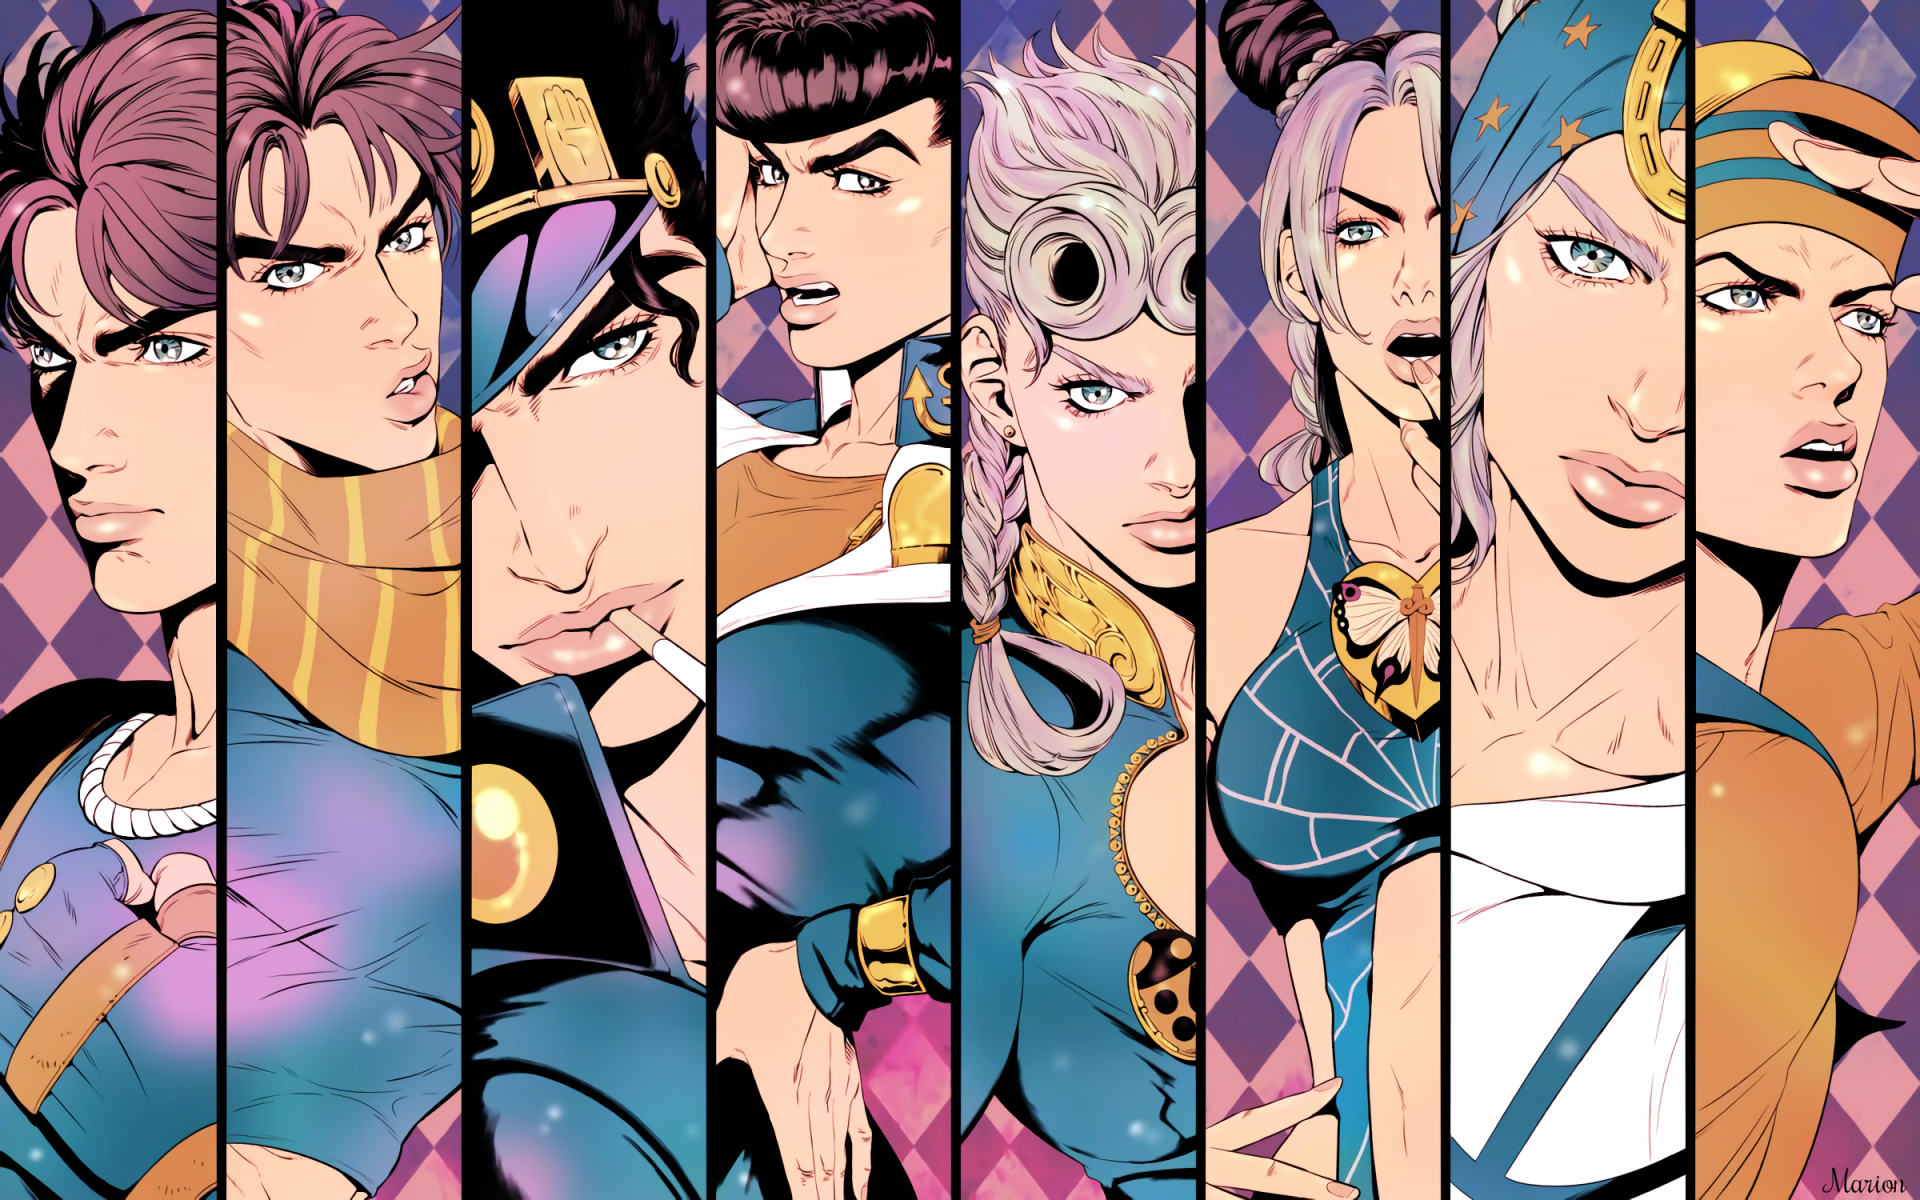
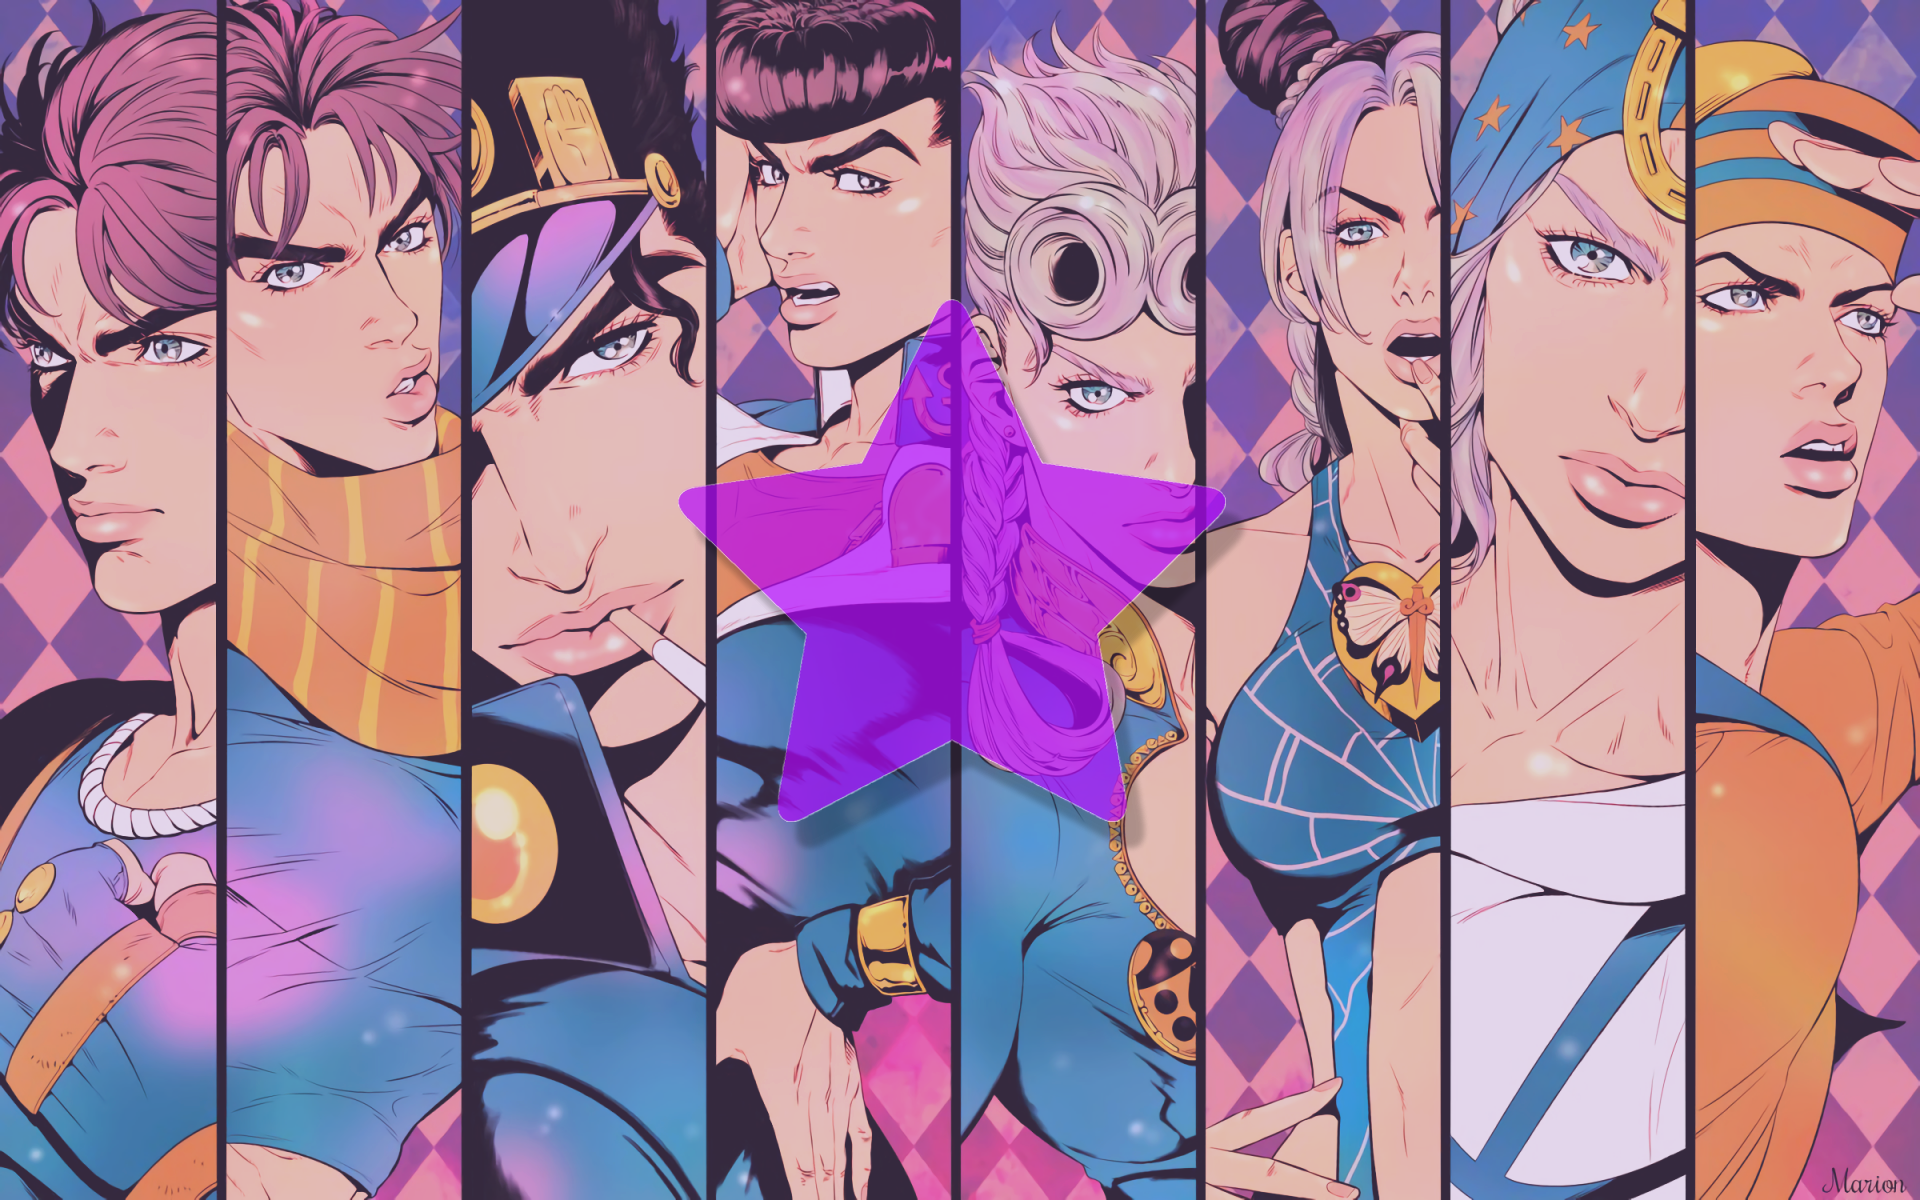
correctifs hof

diff --git a/HoF/shonen/nekketsu.html b/HoF/shonen/nekketsu.html
@@ -1052,11 +1052,11 @@
      <div id="carousel5e" class="carousel slide carousel-fade bigScreen">
         <div class="carousel-inner ">
 
-          <div class="carousel-item active">
+          <div class="carousel-item">
              <img src="hxh20.jpg" class="d-block w-100 carouselGeneraux" alt=".">
           </div>
 
-          <div class="carousel-item ">
+          <div class="carousel-item active ">
              <img src="hxh21.jpg" class="d-block w-100 carouselGeneraux" alt=".">
           </div>
 
@@ -1211,6 +1211,22 @@
            </p>
           </div>
 
+          <div class="carousel-item">
+            <p>"Quand je dis que ça ne me fait pas mal, ça veut dire que je peux le supporter" <br><br>
+             <i>Killua Zoldyk</i>
+           </p>
+          </div>
+
+          <div class="carousel-item">
+            <p>"Normalement, comme les gens aiment et sont aimés, ils ressentent du 
+              bonheur. Quand je suis détesté par les gens, c'est là que je ressens du 
+              bonheur. Et puis j'ai envie de <b>déchirer</b> et d'infliger un mal inimaginable
+               aux choses que j'aime. <br> Mais est-ce vraiment si étrange, je me demande ?" <br><br>
+             <i>Pariston Hill</i>
+           </p>
+          </div>
+
+
 
        </div>
 
@@ -1265,9 +1281,6 @@
             </p>
           </div>
 
- 
-
-
           <div class="carousel-item">
              <p>"Nous sommes vraiment des créatures faibles, mais c'est pourquoi nous pouvons 
               nous efforcer de devenir plus forts. Même si vous pensez que c'est inutile, chaque
@@ -1276,7 +1289,34 @@
              </p>
           </div>
 
- 
+         <div class="carousel-item">
+           <p>"Les enseignements qui se font sans douleur n'ont pas de réelle valeur... <br>Ainsi, on ne peut rien obtenir sans faire de sacrifice." <br><br>
+            <i>Hiromu Arakawa</i>
+            </p>
+         </div>
+
+        <div class="carousel-item">
+          <p>" Pour obtenir quelque chose, il faut qu'il y ait quelque chose de valeur égale.
+             C'est la loi de conservation en alchimie. À l'époque, nous croyions que c'était
+              la vérité du monde. Cependant, le monde réel n'est pas parfait, il n'y a donc 
+              pas qu'une seule loi qui régit tout ce qui s'y passe." <br><br>
+           <i>Alphonse Elrick</i>
+           </p>
+        </div>
+
+        <div class="carousel-item">
+          <p>" La destruction et la création sont les deux faces d'une même médaille. 
+            Vous devez détruire pour créer ! C'est la loi de l'univers.
+            " <br><br>
+           <i>Alex Louis Amstrong</i>
+           </p>
+        </div>
+
+        <div class="carousel-item">
+          <p>"Nos noms nous sont donnés par Dieu. J'ai trahi Dieu, alors je n'ai plus de nom" <br><br>
+           <i>Scar</i>
+           </p>
+        </div>
 
 
        </div>
@@ -1680,9 +1720,52 @@
           
           <div class="carousel-item">
              <p>"Parfois, j'ai l'impression d'être un raté. 
-                Comme s'il n'y avait aucun espoir pour moi. <br> Mais même ainsi, je ne vais pas abandonner." <br> <br>
+                Comme s'il n'y avait aucun espoir pour moi. <br> Mais même comme ça, j'abandonnerai pas." <br> <br>
                 <i>Midorya Izuku</i>
              </p>
+          </div>
+
+          <div class="carousel-item">
+            <p>"Le travail d'un héros est de risquer
+               sa vie pour transformer ses promesses en réalité. <br>
+               Les rêves peuvent devenir réalité !" <br> <br>
+               <i>Midorya Izuku</i>
+            </p>
+          </div>
+
+          <div class="carousel-item">
+            <p>"Que vous gagniez ou perdiez, regarder en arrière et apprendre de vos expériences
+              fait partie de la vie. Ne négliez pas ça !" <br> <br>
+               <i>AllMight</i>
+            </p>
+          </div>
+
+          <div class="carousel-item">
+            <p>"A force de à mépriser les autres, on perd de vue ses propres faiblesses !" <br> <br>
+               <i>Katsuki Bakugo</i>
+            </p>
+          </div>
+
+          <div class="carousel-item">
+            <p>"Les hommes ne naissent pas égaux. J’ai appris cette vérité à l’âge de 4 ans." <br> <br>
+               <i>Shigaraki Tomura</i>
+            </p>
+          </div>
+
+          <div class="carousel-item">
+            <p>"Vous êtes tous comme ça. Vous faîtes semblant de protéger la société. Par le
+               passé, pendant des générations, vous avez ignoré ce que vous ne pouviez
+                pas protéger. Vous avez mis la société sous cloche, en empêchant la souffrance
+                 d'avoir droit de cité. Résultat ? Elle a pourri de l'intérieur et les verres
+                  ont grouillé... Petit à petit, la gangrène se propageait... Tous ces déchets 
+                  habitués à se laisser protéger. Ceux qui laissent naître les déchets afin de 
+                  les protéger, profiteurs du crime. <br> Dans <b>tout</b> ce que vous avez bâti, tout ce 
+                  que j'ai pu voir <b>désavouait mon existence même</b>. Alors moi aussi, je vais 
+                  désavouer votre société. Je vais l'annihiler. Mais pour ça, j'ai besoin 
+                  de pouvoir. Simple comme bonjour, non ? <br> Si vous comprenez pas, c'est rien. 
+                  <b>C'est pour ça que vous êtes des héros et que je suis un vilain !</b> " <br> <br>
+               <i>Shigaraki Tomura</i>
+            </p>
           </div>
 
        </div>
@@ -2098,6 +2181,12 @@
               <i>Sawada Tsunayoshi</i></p>
           </div>
 
+          <div class="carousel-item">
+            <p>"C'est le ciel qui permet au nuage de se déplacer librement. Mais un
+               jour, je mordrai même le ciel lui-même" <br><br>
+              <i>Hibari Kyoya</i></p>
+          </div>
+
 
        </div>
 
@@ -2136,7 +2225,7 @@
           <p>Deux orphelins, Asta et Yuno, accueillis et ayant grandi dans le même orphelinat se promettent depuis petit 
             de devenir
             Empereur-Mage. Le plus le plus grand titre du royaume témoignant de la puissance magique 
-            du royaume. Malgré qu'Asta soit le seul à ne pas avoir de magie, il continue à croire fortement à son rêve
+            du royaume. Malgré qu'Asta soit le seul à ne pas avoir de magie, il continue à croire fortement en son rêve
             et s'entraine physiquement en attendant. <br>
             Le grand jour de leur attribution de grimmoire, il s'avère que finalement, seul
             Yuno se voit attribué d'un grimmoire, béni par la magie et obtenant la meilleure catégorie.
@@ -2145,7 +2234,7 @@
       
             Dans sa déroute, il croise un pnj hautain qui va le cabosser sévèrement, frôlant la mort.
             Il commence alors à complètement renoncer à sa vie, brisé par la dure réalité de son impuissance dans ce monde.
-            Lorsqu'une étincelle de sa volonté refusant de s'éteindre l'anima ! Il se voit alors tout d'un coup
+            Quant une étincelle de sa volonté refusant de s'éteindre l'anima ! Il se voit alors tout d'un coup
              attribué d'un grimmoire ! <br>
             Un grimmoire marqué d'un trèfle à 5 feuille, le signe des démons ..
           </p>
@@ -2153,13 +2242,36 @@
 
           <div class="carousel-item">
             <p>"Chaque feuille du trèfle représente une vertu.  <br>
-               Les trois premièressont pour l’Espérance, la Foi et la Charité. <br>
+               Les trois premières sont pour l’Espérance, la Foi et la Charité. <br>
                La quatrième est pour la Chance.
                Mais dans la cinquième ... y réside <b>le Démon</b>." 
             </p>
+          </div>
+
+            <div class="carousel-item">
+              <p>" Le gravier est peut-être du gravier. Mais moi? 
+                Je suis du gravier qui brise les diamants !" <br> <br> <i>Asta</i>
+              </p>
+            </div>
+
+            <div class="carousel-item">
+              <p>"Arrête d’abandonner ! Ce que tu fais en ce moment, c'est 
+                t'enfuir ! Tu as juste arrêté de réfléchir et te battre, et tu t’es enfermé 
+                dans l’obscurité parce que c’est plus facile comme ça !" <br> <br> <i>Asta</i>
+              </p>
             </div>
 
 
+
+            <div class="carousel-item">
+              <p>"Dépassez vos limites: ICI ET MAINTENANT !!" <br> <br><i>Yami Sukehiro</i>
+              </p>
+            </div>
+
+            <div class="carousel-item">
+              <p>"Il n'y a pas de honte à être faible... Mais rester faible l'est <br> <br> <i>Fuegoleon Vermillon</i>
+              </p>
+            </div>
 
        </div>
 

diff --git a/assets/style-hof.css b/assets/style-hof.css
@@ -11,11 +11,35 @@ body {
     padding: 0;
 }
 
+.bodyOthers {
+    background-image: url("../img/star2.png");    
+    background-repeat:no-repeat;
+    background-size: 22%; 
+    background-attachment: fixed;
+    background-position: right;
+}
+
+.bodyOthers::before{
+    content: "";
+    background-image:url("../img/starr.png");
+    background-repeat: no-repeat;
+     background-size: 25%;
+     background-attachment: fixed;
+     background-position: right;
+     top: 0%;
+     right: 0%;
+     bottom: 0%;
+     left: 0%;
+     opacity: 0.47;
+     position: fixed;
+}
+
 
 .dark-mode {
-    background: rgb(20,99,162);
+    background-color: rgb(20,99,162);
     background: linear-gradient(0deg, rgba(20,99,162,1) 0%, rgba(31,10,116,1) 31%, rgba(80,15,129,1) 72%, rgba(20,99,162,1) 100%);
     color: white;
+    
     h3 {
         border: none;
          box-shadow: none;
@@ -28,8 +52,8 @@ body {
         background-size: 100%;
         inline-size: 70%; 
         -webkit-text-stroke: 1.5px black;
-        
     };
+
     .modal-content {
         color: rgba(252, 248, 5, 0.918);
         background-color: rgba(6, 6, 117, 0.548);
@@ -251,7 +275,8 @@ a{
     border-bottom: solid 8px currentColor;
     border-left: dashed 7px currentColor;
     border-top: dashed 7px currentColor;
-    box-shadow: 0.80rem 0.80rem 0 rgb(252, 255, 59);
+    box-shadow: 0.80rem 0.80rem 0 rgb(82, 228, 119);
+    /* box-shadow: 0.80rem 0.80rem 0 rgb(210, 39, 253); */
     text-align: center;
 }
 
@@ -361,7 +386,7 @@ a{
 /**************************************************************************/
 /** CONSEILS *************************************************************/
 
-/* .     .     .    empty (a faire plus tard)
+/* X     X     X     X    X    .     .     .    empty (a faire plus tard)
 
 /****************************************************************************/
 /***************************************************************************/
@@ -391,13 +416,12 @@ a{
 }
 
 /*   PETIT ECRAN  -------------------- */
-
 @media screen and (max-width: 980px) {
 
 
 .bodyOthers::after{
     content: "";
-    background-image:url("../img/star.png");
+    background-image:url("../img/star2.png");
      background-size: cover;
      background-position: center;
      background-attachment: fixed;
@@ -407,7 +431,6 @@ a{
      bottom: 0%;
      left: 0%;
      opacity: 0.48;
-    
 }  
 
 h2{

diff --git a/HoF/others/others.html b/HoF/others/others.html
@@ -27,7 +27,7 @@
 <!-- HEADER-->
     <header>
 
-       <h1 class="pol-lovetat"><b> WaggOnee !</b></h1>
+      <h1 class="pol-lovetat"><b> <a href="index.html" class="title">WaggOnee !</a></b></h1>
 
        <ul class="pol-josefin menu">
         <li><a href="../../index.html">accueil</a></li>
@@ -948,6 +948,8 @@
  
 
 <!-- -- -- -- -- -- -- -- -- -- -- -- -- -- -- -- -- -- -- -- -- -- -- -- -- -- -- -- -- -- -- -- -- -- -- -->
+
+   <hr class="hr2">
 
 <!-- -- -- -- -- -- -- -- -- -- -- -- -- -- -- -- -- -- -- -- -- -- -- -- -- -- -- -- -- -- -- -- -- -- -- -->
 
